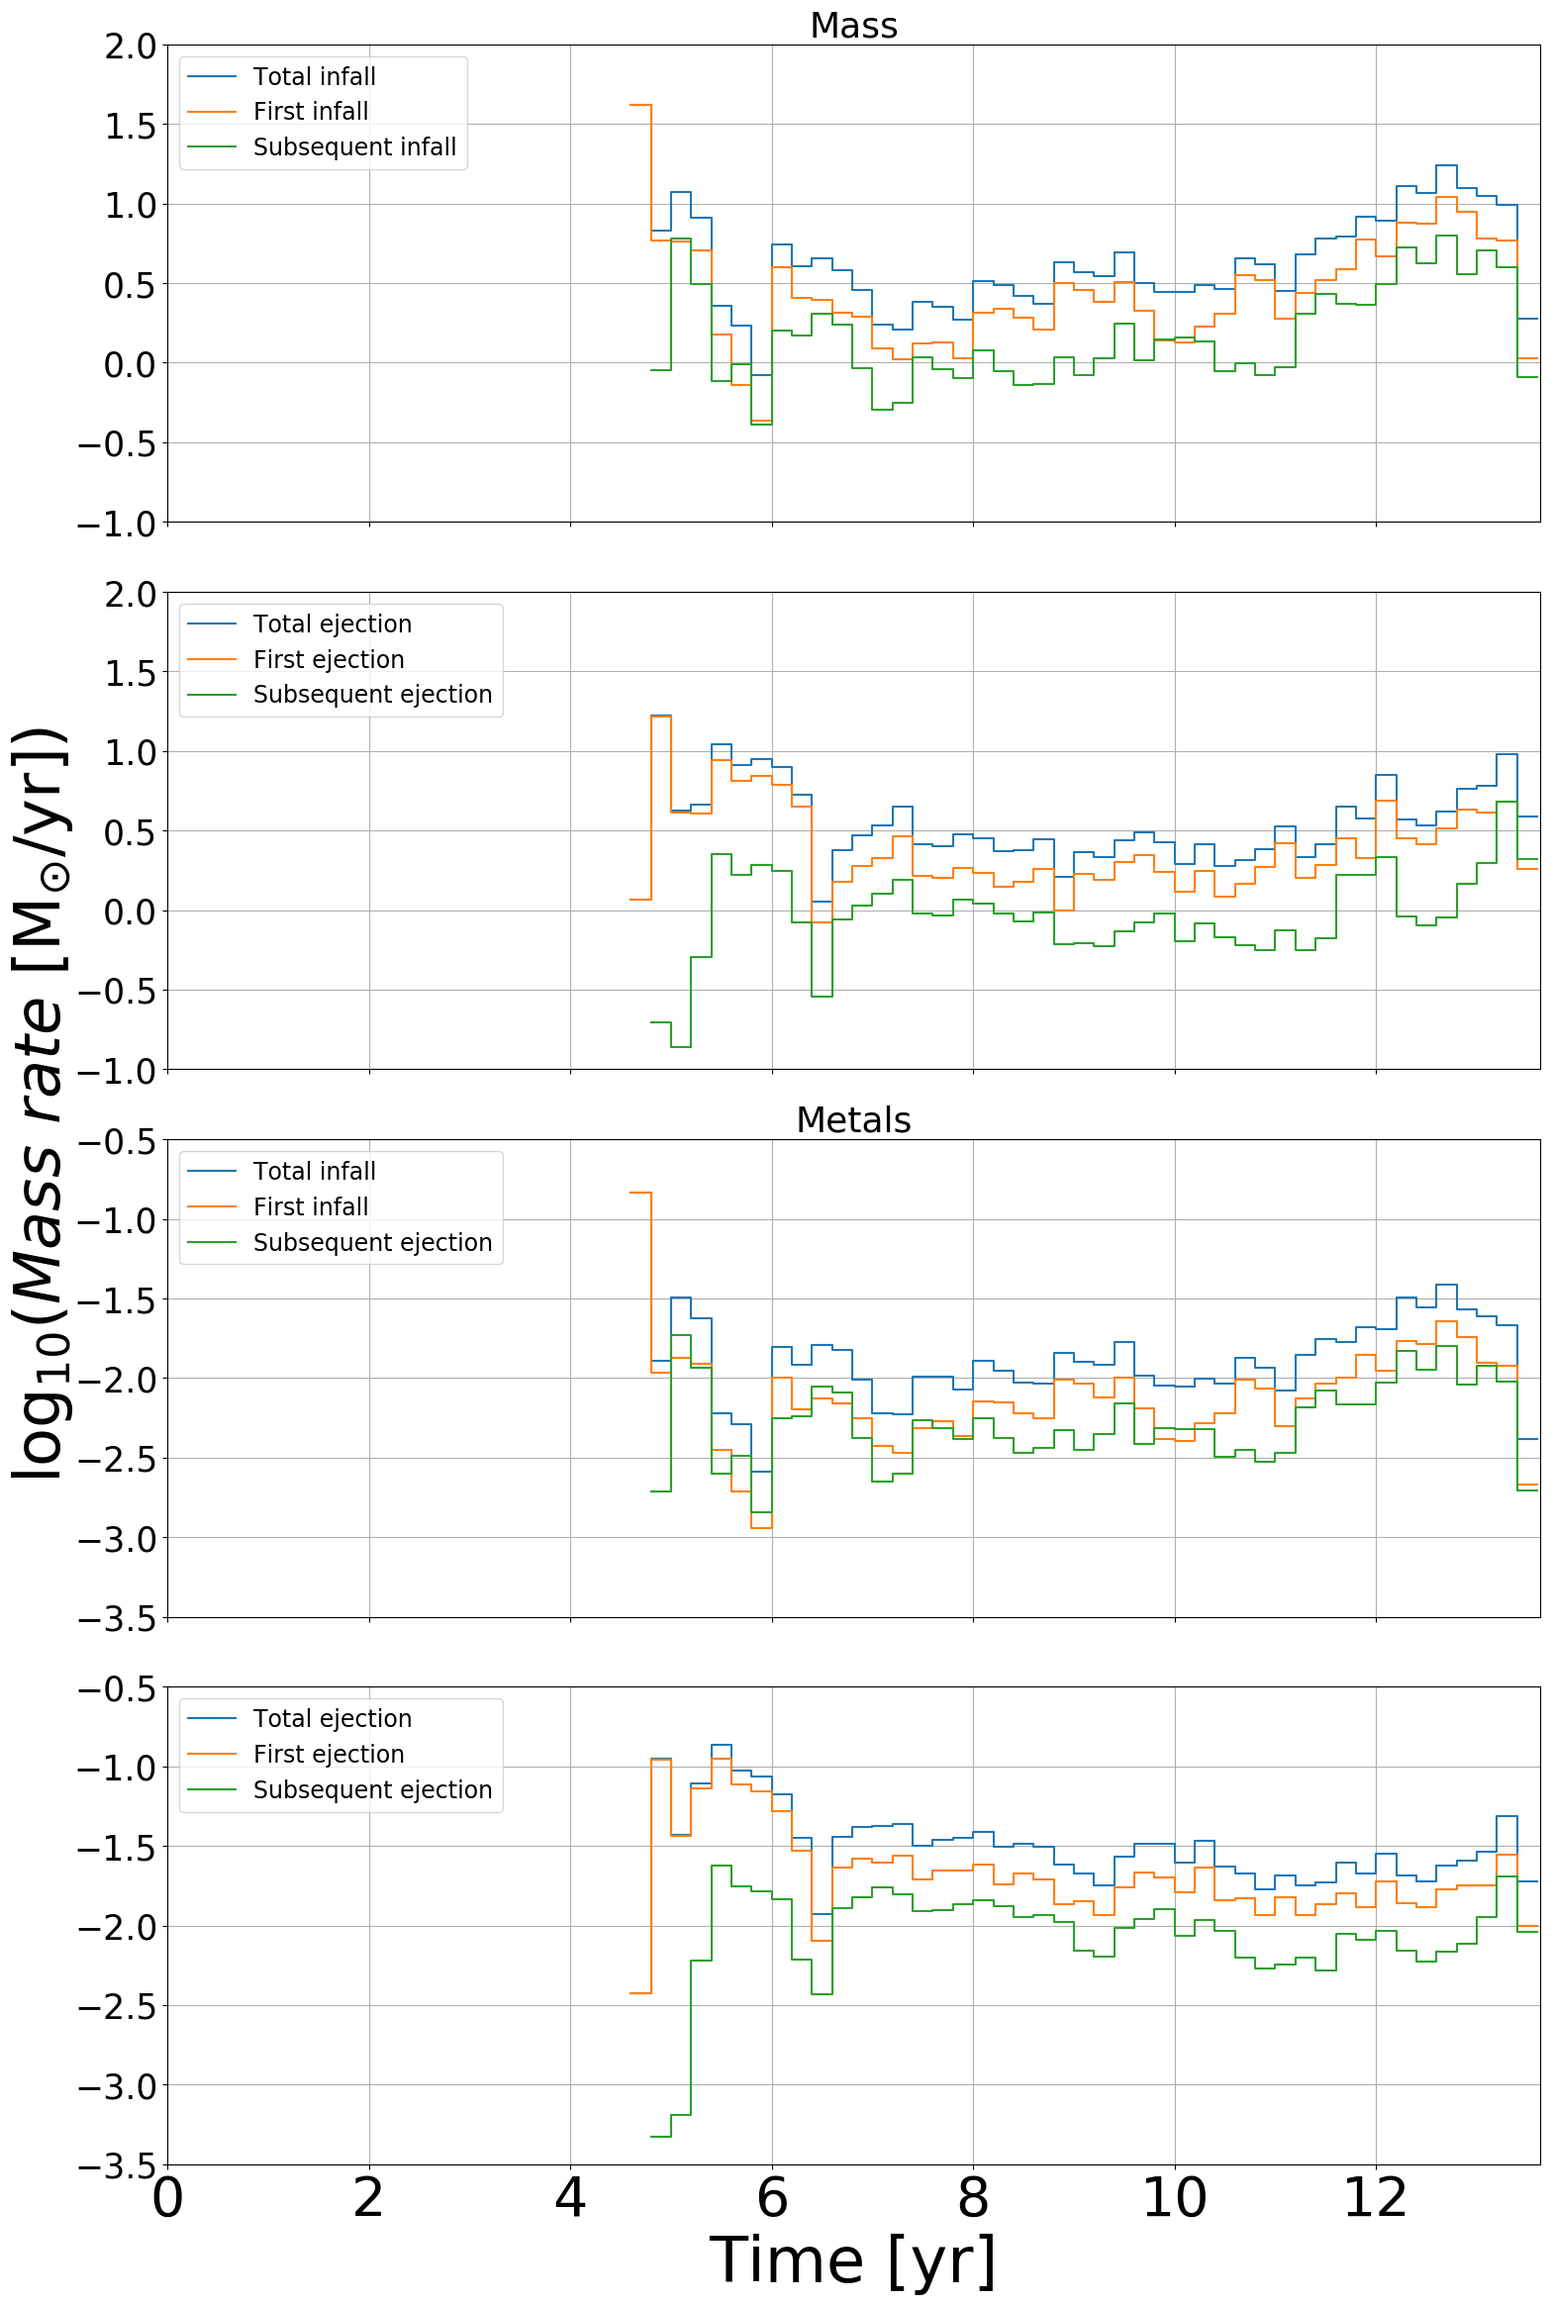
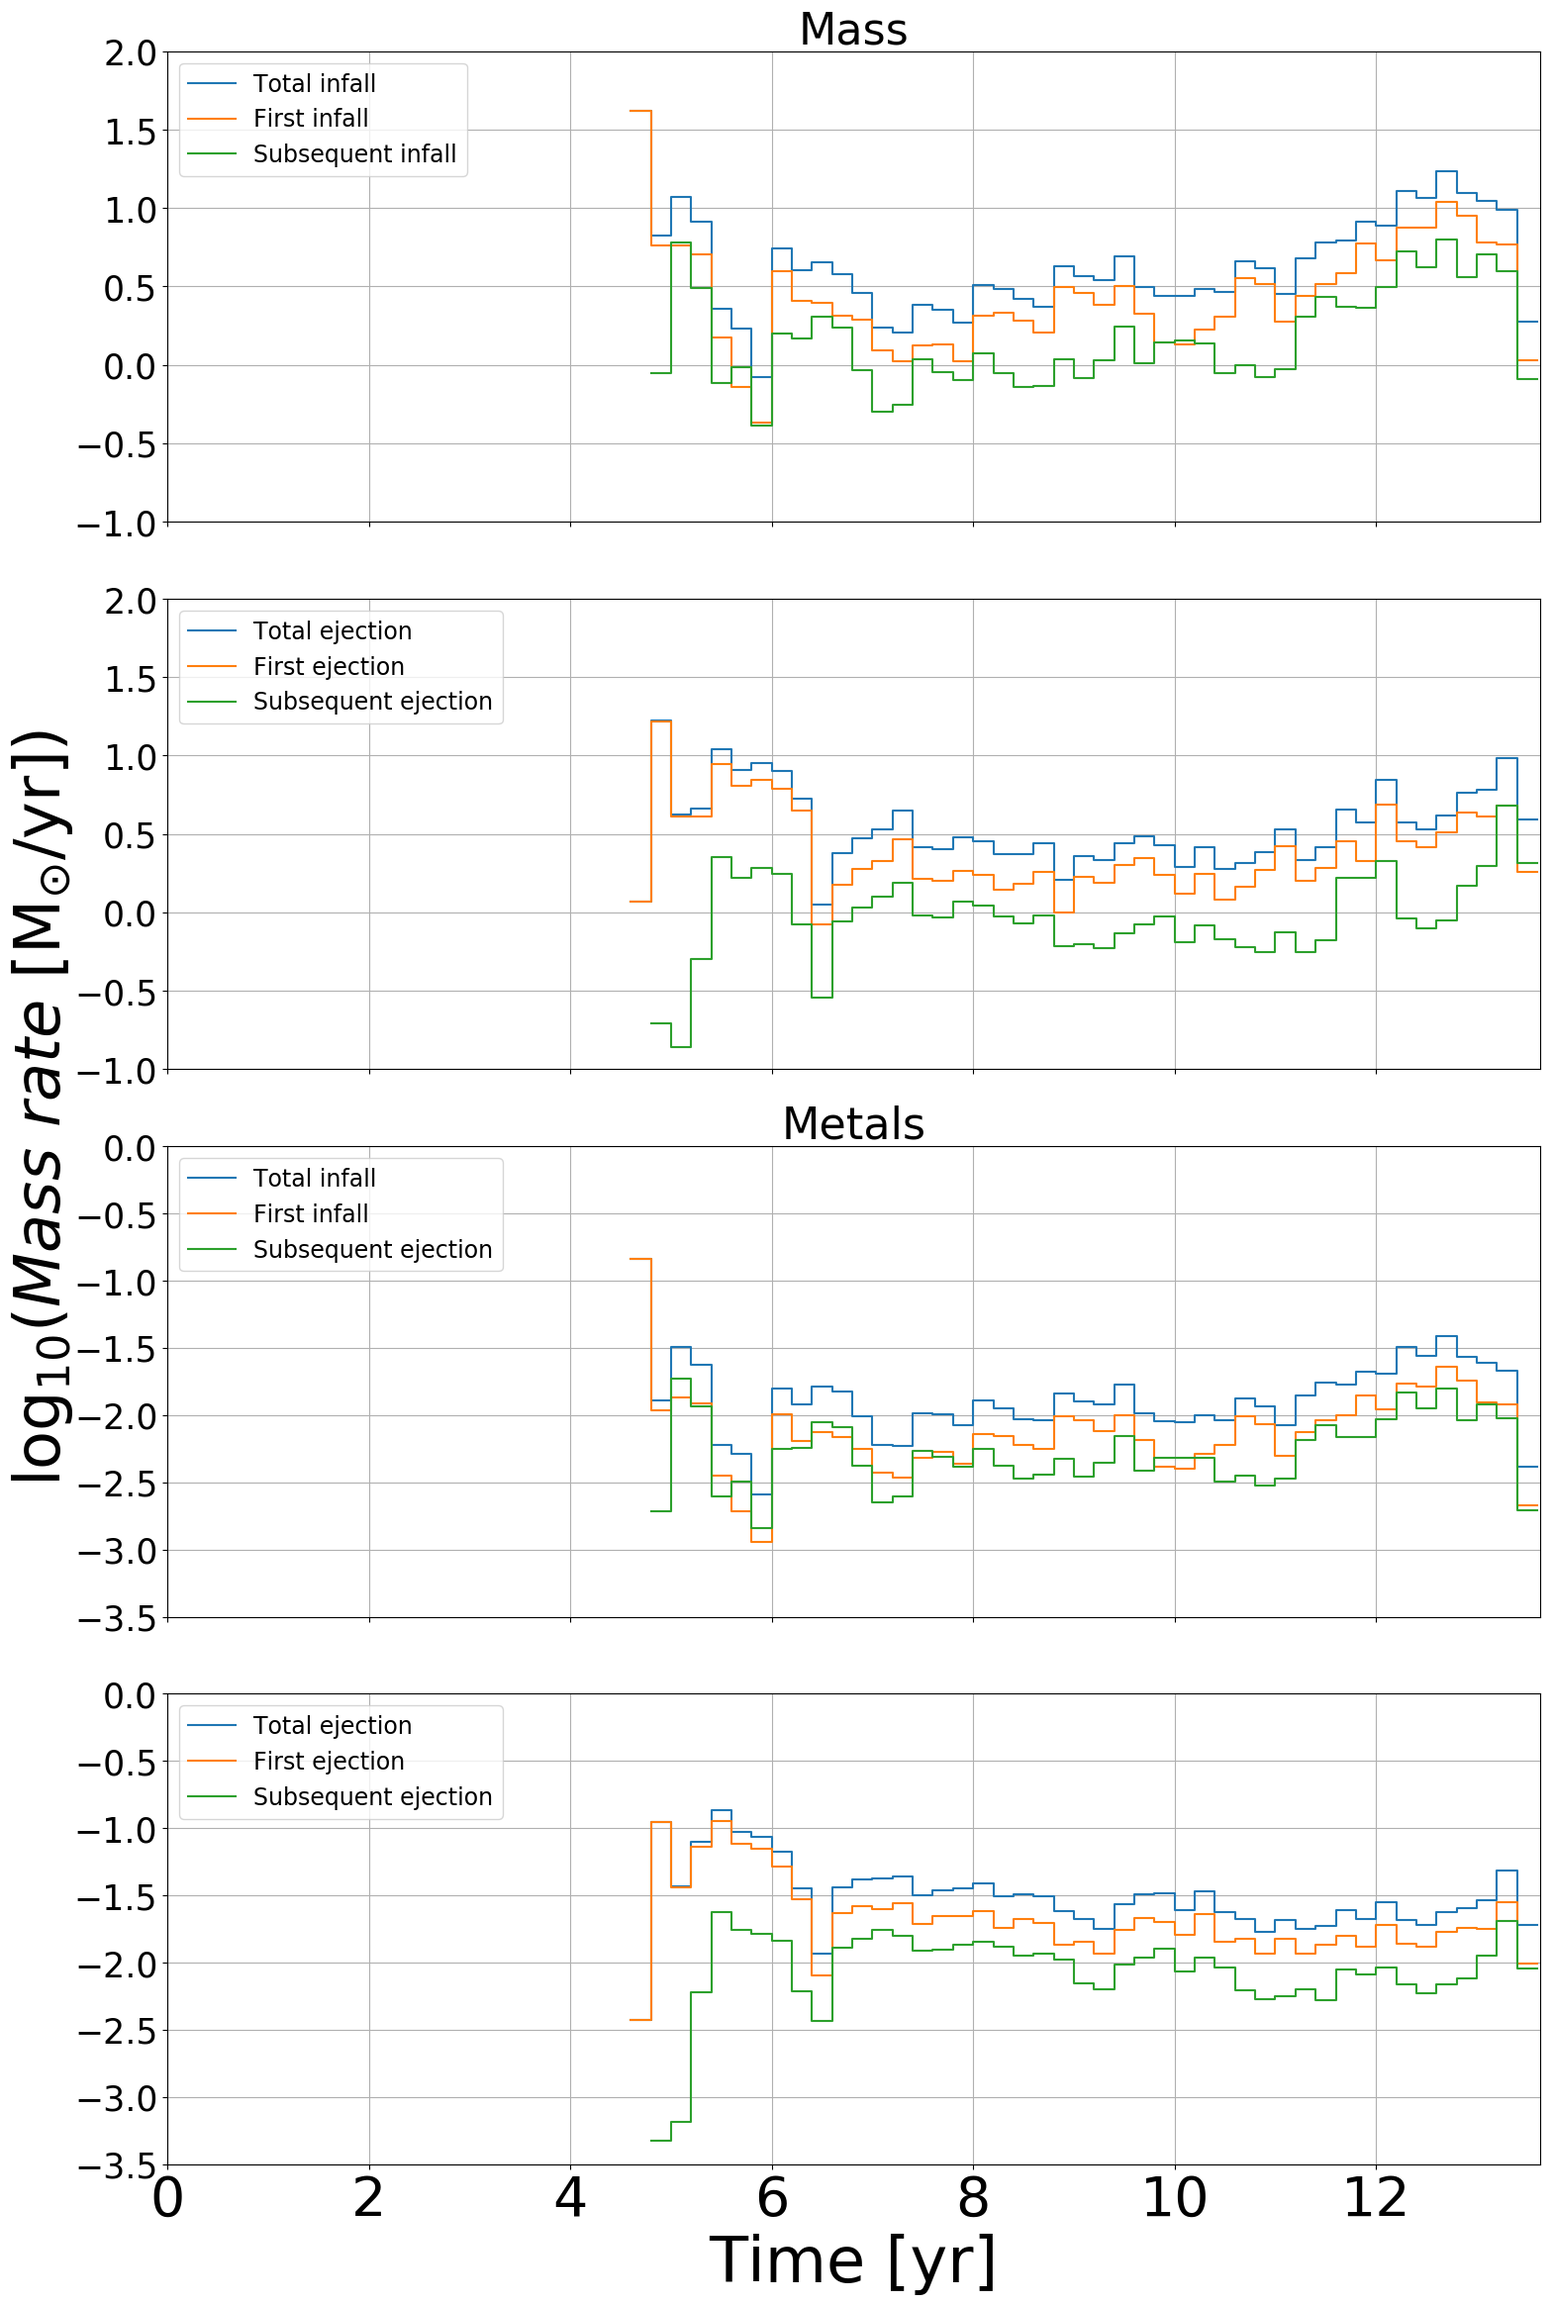
in_out_over_time fix ylim

diff --git a/1/in_out_over_time.py b/1/in_out_over_time.py
@@ -79,7 +79,7 @@ def plot(args):
     for ax in (ax1, ax2):
         ax.set_ylim((-1, 2))
     for ax in (ax3, ax4):
-        ax.set_ylim((-3.5, -.5))
+        ax.set_ylim((-3.5, 0))
 
     ax1.set_title("Mass")
     ax1.step(bins[:-1], mass_infall, label='Total infall')
